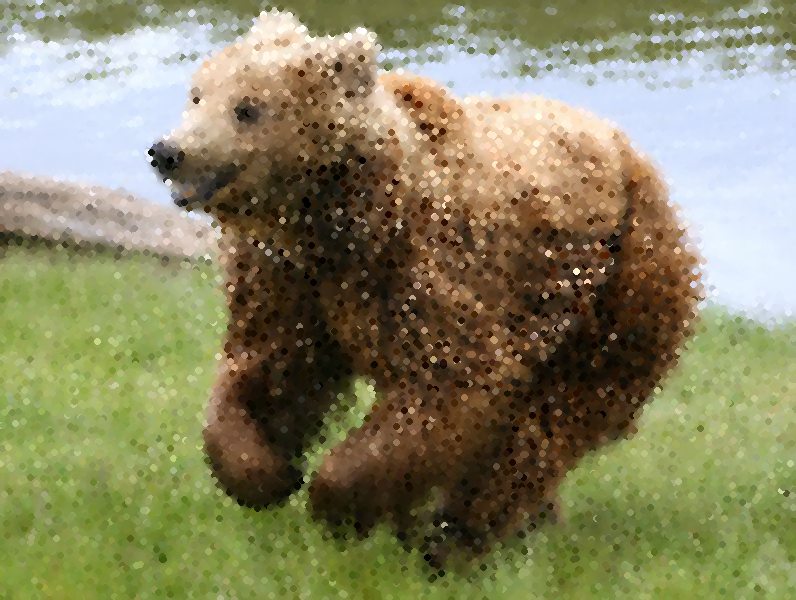
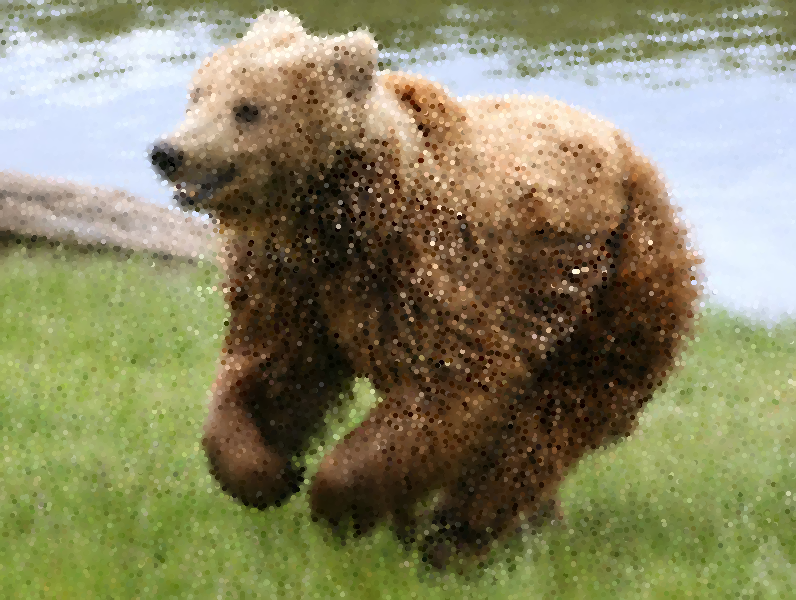
some updates blurring etc

diff --git a/seurat.py b/seurat.py
@@ -61,8 +61,8 @@ def get_poisson_points(image, mindist, radius):
                 circle_fill(color, output, h, w, new_point[0], new_point[1], radius)
     return output
 
-r = 3
-mindist = 5
+r = 2
+mindist = 4
 
 opened = Image.open("bear.jpg")
 opened_h = opened.size[0]
@@ -85,6 +85,8 @@ for layer in range(rangelim):
     for i in range(len(imagelist)):
         for j in range(len(imagelist[i])):
             if not np.isnan(imagelist[i][j][0]):
+                # at this point: blend the current dot with the underlying color 
+                # note that this makes it ok to blend even after the first layer, since it'll have no effect.
                 layer_image.putpixel((i, j), tuple(map(int, imagelist[i][j])))
             else:
                 layer_image.putpixel((i,j), new.getpixel((i,j)))
@@ -107,5 +109,6 @@ for layer in range(rangelim):
     #new = Image.blend(new, layer_image, 0.05)
     #new.paste(layer_image, (0, 0), layer_image)
     if layer == rangelim-1:
-        new = new.filter(ImageFilter.GaussianBlur(radius=1))
+        pass
+        # new = new.filter(ImageFilter.GaussianBlur(radius=1))
     new.save("output"+str(layer)+".png")
